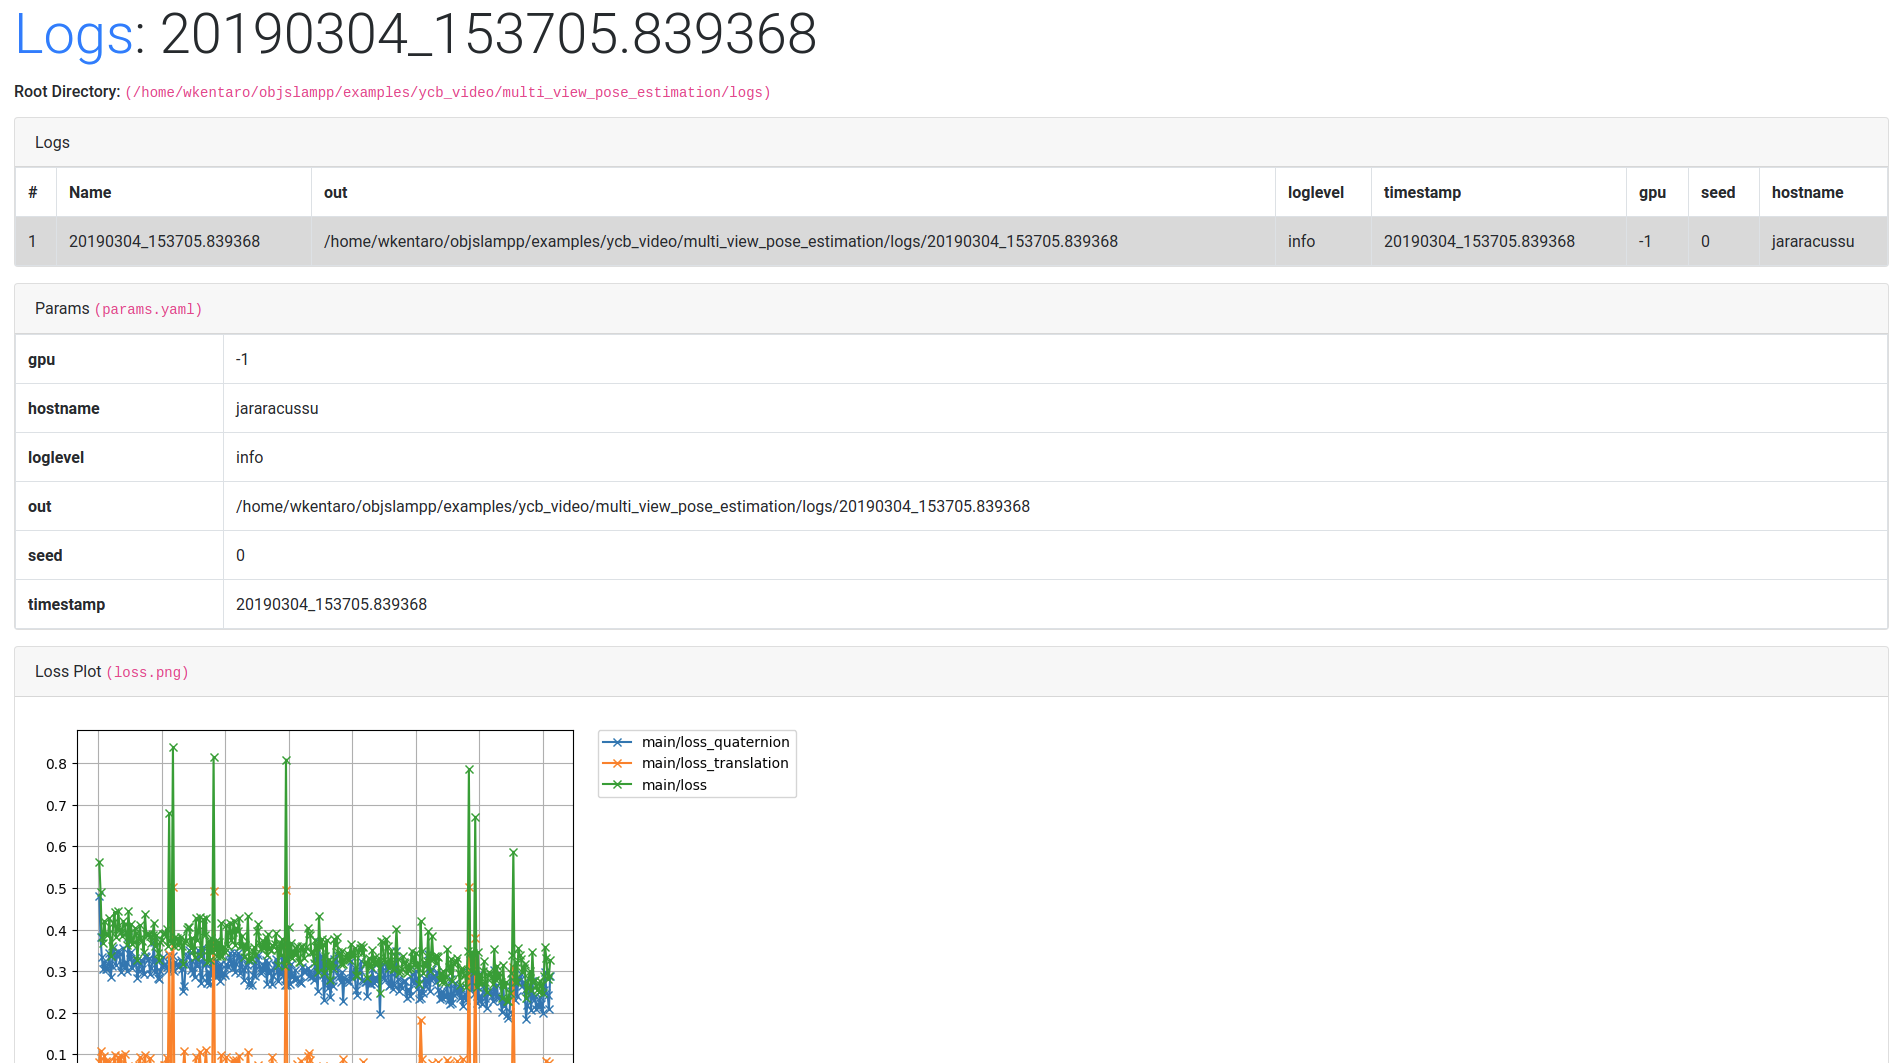
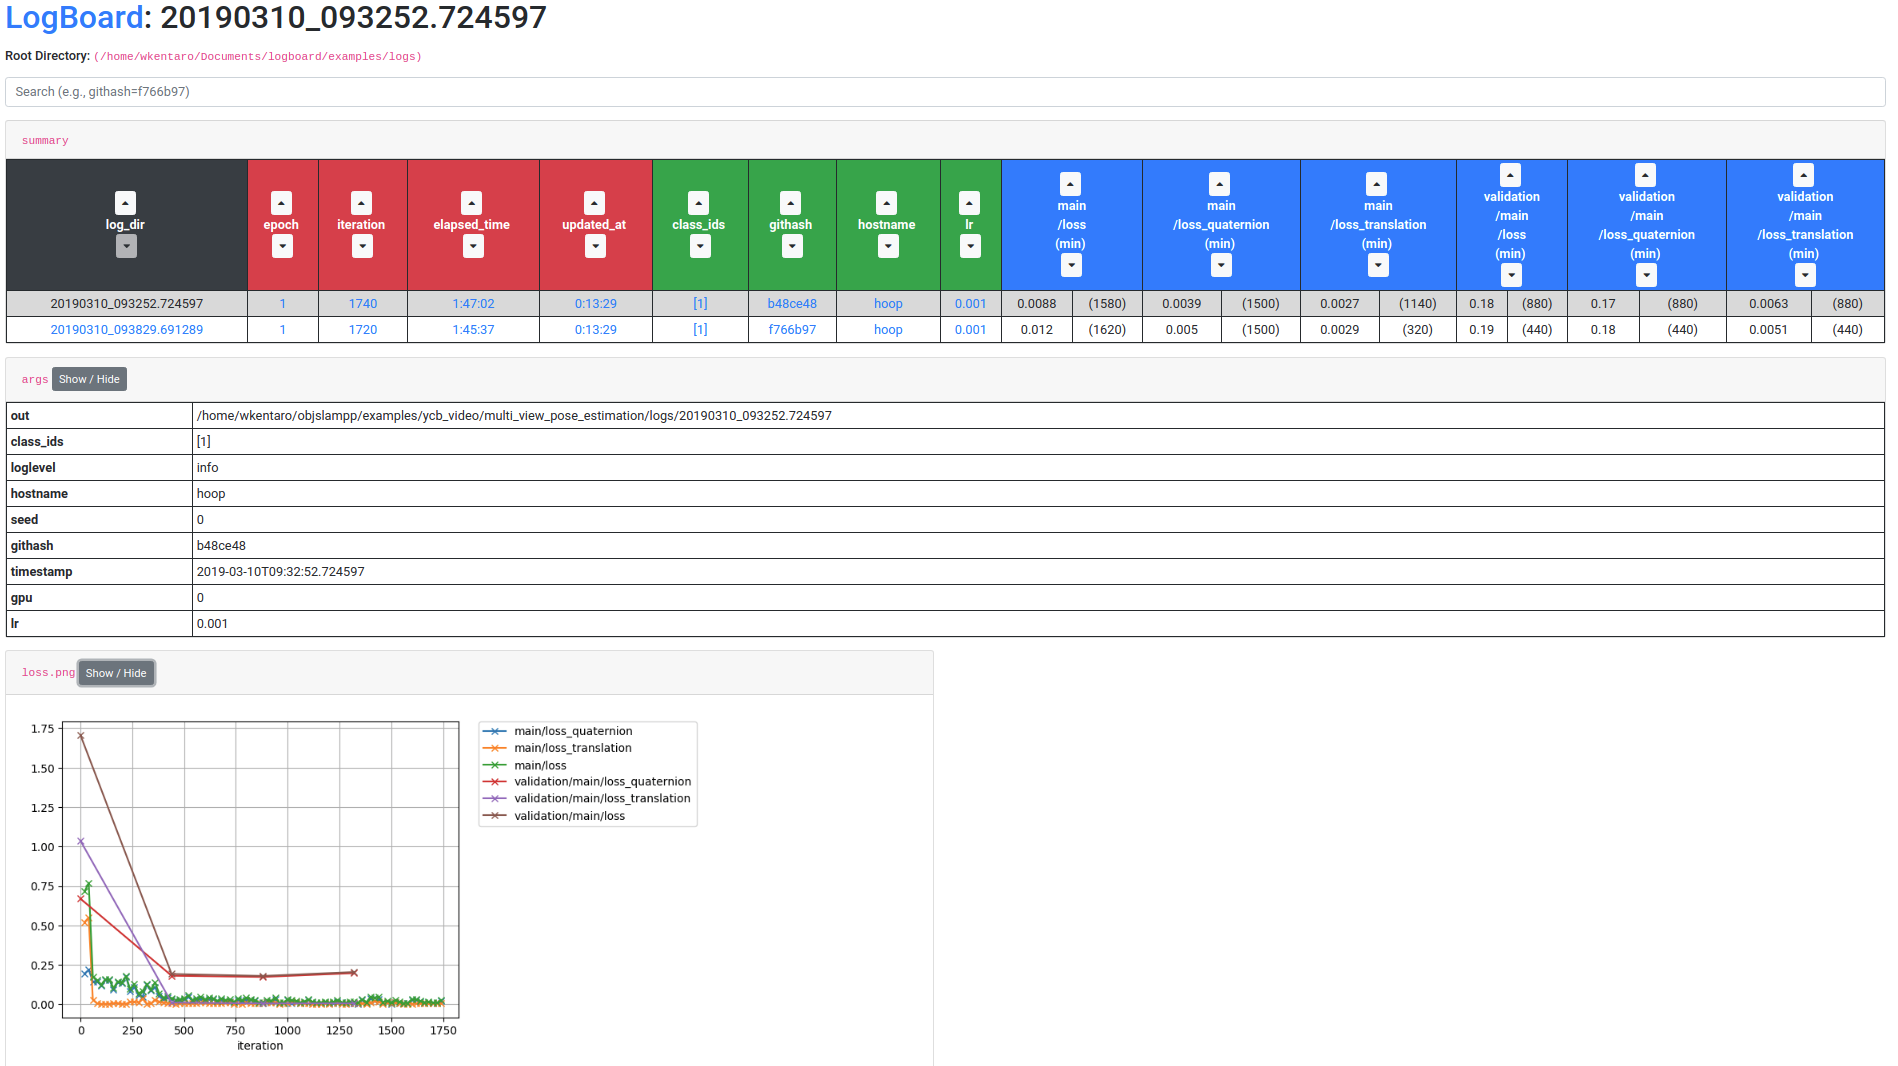
chainerlg -> logboard

Changed region(s): [[0.0, 0.1242, 0.9947, 0.6519], [0.0, 0.683, 0.4352, 1.0], [0.0, 0.0, 0.4352, 0.0931]]

diff --git a/logboard/templates/index.html b/logboard/templates/index.html
@@ -4,7 +4,7 @@
   <meta charset="utf-8">
   <meta http-equiv="X-UA-Compatible" content="IE=edge">
   <meta name="viewport" content="width=device-width, initial-scale=1"><link rel="stylesheet" href="https://maxcdn.bootstrapcdn.com/bootstrap/4.0.0/css/bootstrap.min.css" integrity="sha384-Gn5384xqQ1aoWXA+058RXPxPg6fy4IWvTNh0E263XmFcJlSAwiGgFAW/dAiS6JXm" crossorigin="anonymous">
-  <title>ChainerLG</title>
+  <title>LogBoard</title>
   <link rel="stylesheet" href="https://use.fontawesome.com/releases/v5.7.1/css/all.css" integrity="sha384-fnmOCqbTlWIlj8LyTjo7mOUStjsKC4pOpQbqyi7RrhN7udi9RwhKkMHpvLbHG9Sr" crossorigin="anonymous">
   <style>
     .text-small {
@@ -21,7 +21,7 @@
 <div class="container-fluid">
 
   <h1 class="display-5 mb-3">
-    <a href="/">ChainerLG</a>{% if args_log_dir %}: {{ args_log_dir }}{% endif %}
+    <a href="/">LogBoard</a>{% if args_log_dir %}: {{ args_log_dir }}{% endif %}
   </h1>
 
   <h6 class="mb-3">

diff --git a/setup.py b/setup.py
@@ -25,14 +25,14 @@ if hash_ is not None:
 
 
 setup(
-    name='chainerlg',
+    name='logboard',
     version=version,
     packages=find_packages(),
     include_package_data=True,
-    install_requires=['flask', 'pandas', 'pyyaml'],
+    install_requires=['flask', 'pandas'],
     author='Kentaro Wada',
     author_email='www.kentaro.wada@gmail.com',
-    description='Chainer log browser.',
+    description='Monitor and Compare Logs on Browser.',
     url='http://github.com/wkentaro/chainer-logs',
     license='MIT',
     classifiers=[
@@ -46,5 +46,5 @@ setup(
         'Programming Language :: Python :: Implementation :: CPython',
         'Programming Language :: Python :: Implementation :: PyPy',
     ],
-    entry_points={'console_scripts': ['chainerlg=chainerlg.cli:main']},
+    entry_points={'console_scripts': ['logboard=logboard.cli:main']},
 )

diff --git a/logboard/views.py b/logboard/views.py
@@ -23,9 +23,9 @@ def get_config():
     }
 
     parser = ConfigParser()
-    parser.read('.chainerlg')
+    parser.read('.logboard')
 
-    section = parser['chainerlg']
+    section = parser['logboard']
 
     try:
         config['-summary'] = set(filter(None, section['-summary'].split(',')))

diff --git a/README.md b/README.md
@@ -7,7 +7,7 @@
 </h6>
 
 <div align="center">
-  <img src=".readme/overview.png" width="650px">
+  <img src=".readme/overview.png" width="60%">
 </div>
 
 
@@ -29,3 +29,27 @@ for each log (e.g., git-hash of the code, learning rate, training strategy).
 `logboard` is a kind of extra plugin to `tensorboard`
 (but you need to run in different terminal, unfortunately).
 I expect this kind of feature will be included in `tensorboard` in the future.
+
+
+## Usage
+
+```bash
+$ cd examples
+
+$ cat logs/20190310_093252.724597/args
+{
+    "loglevel": "info",
+    "gpu": 0,
+    "seed": 0,
+    "class_ids": [
+        1
+    ],
+    "lr": 0.001,
+    "timestamp": "2019-03-10T09:32:52.724597",
+    "out": "/home/wkentaro/logboard/examples/logs/20190310_093252.724597",
+    "hostname": "computer1",
+    "githash": "b48ce48"
+}
+
+$ logboard --logdir logs/  # like tensorboard --logdir logs/
+```
